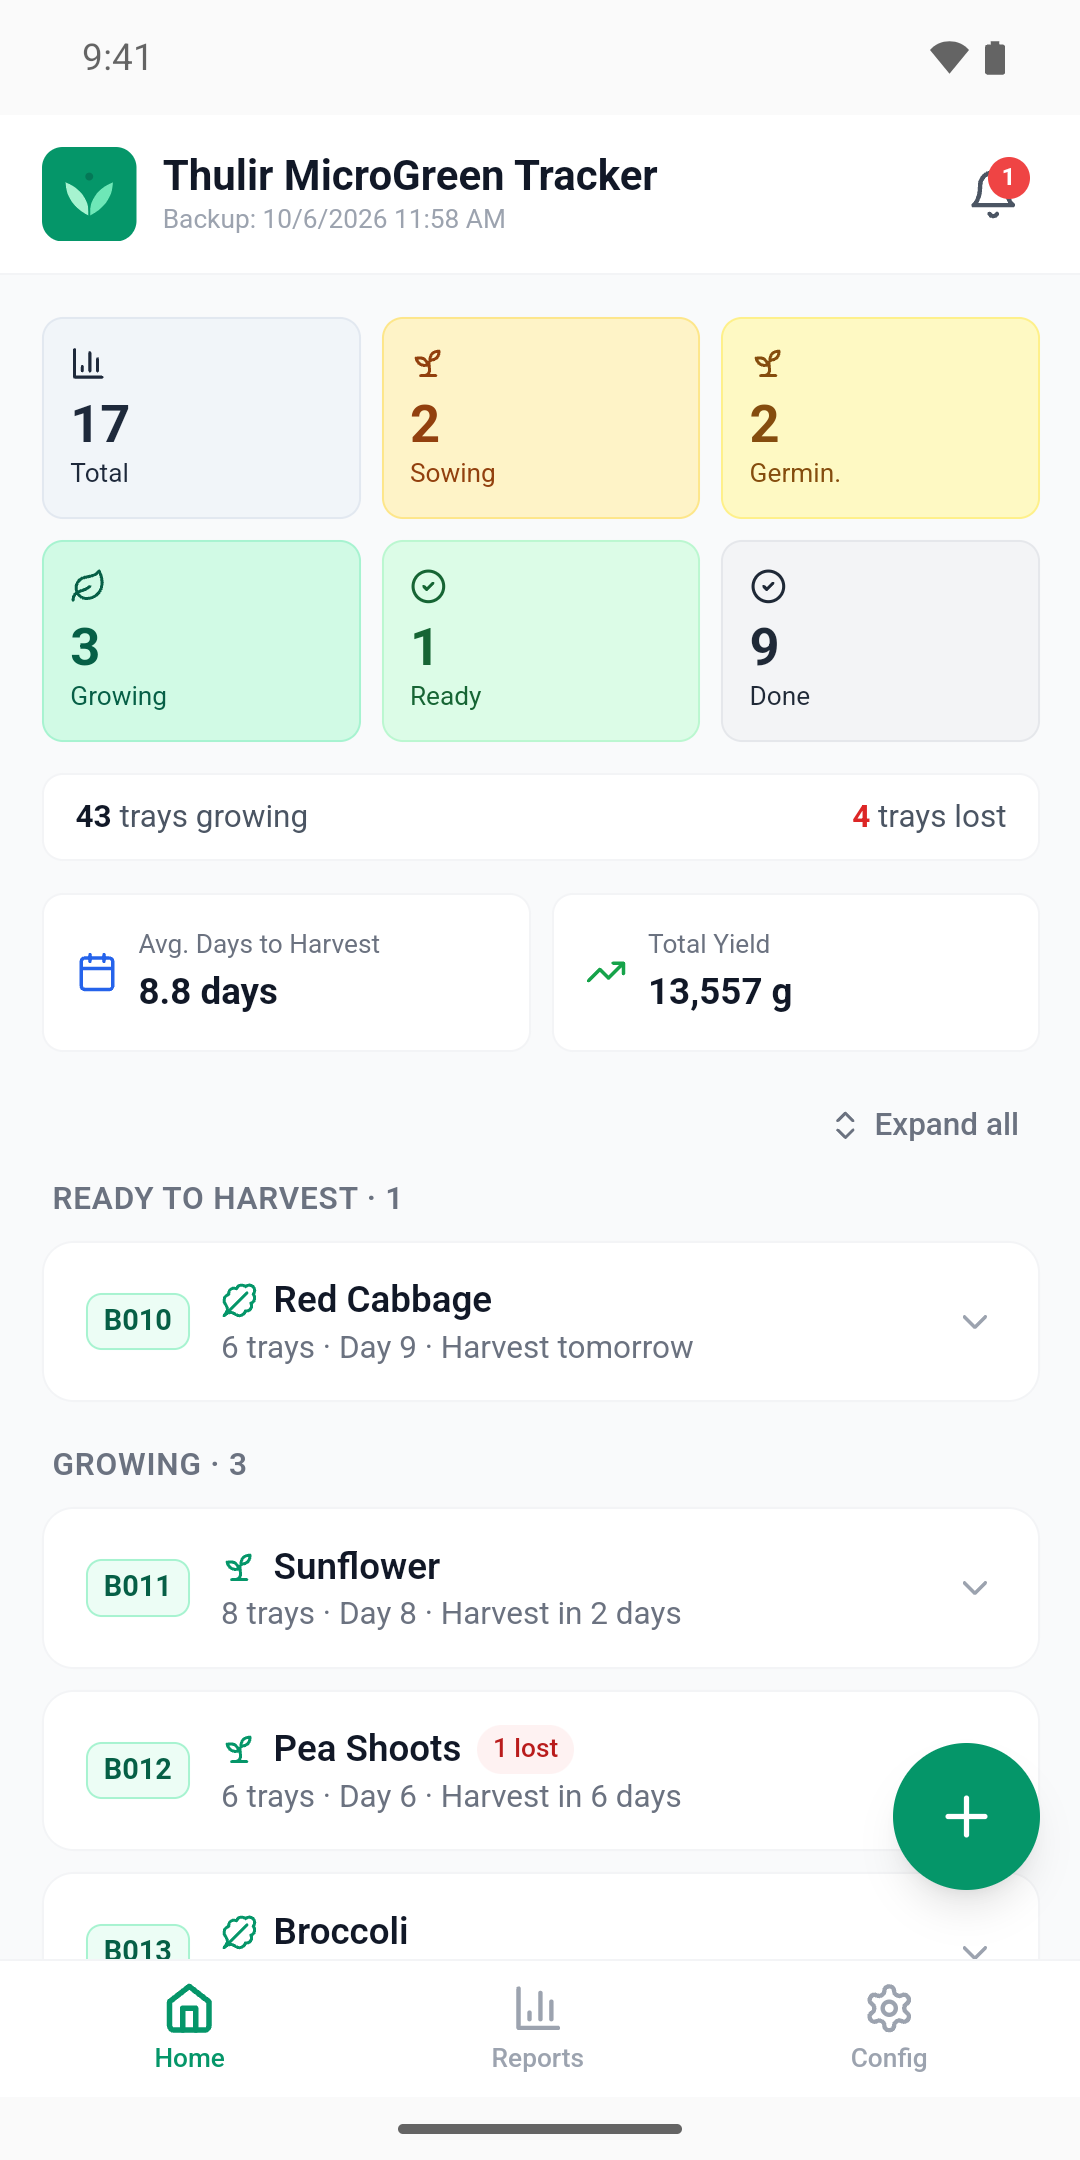
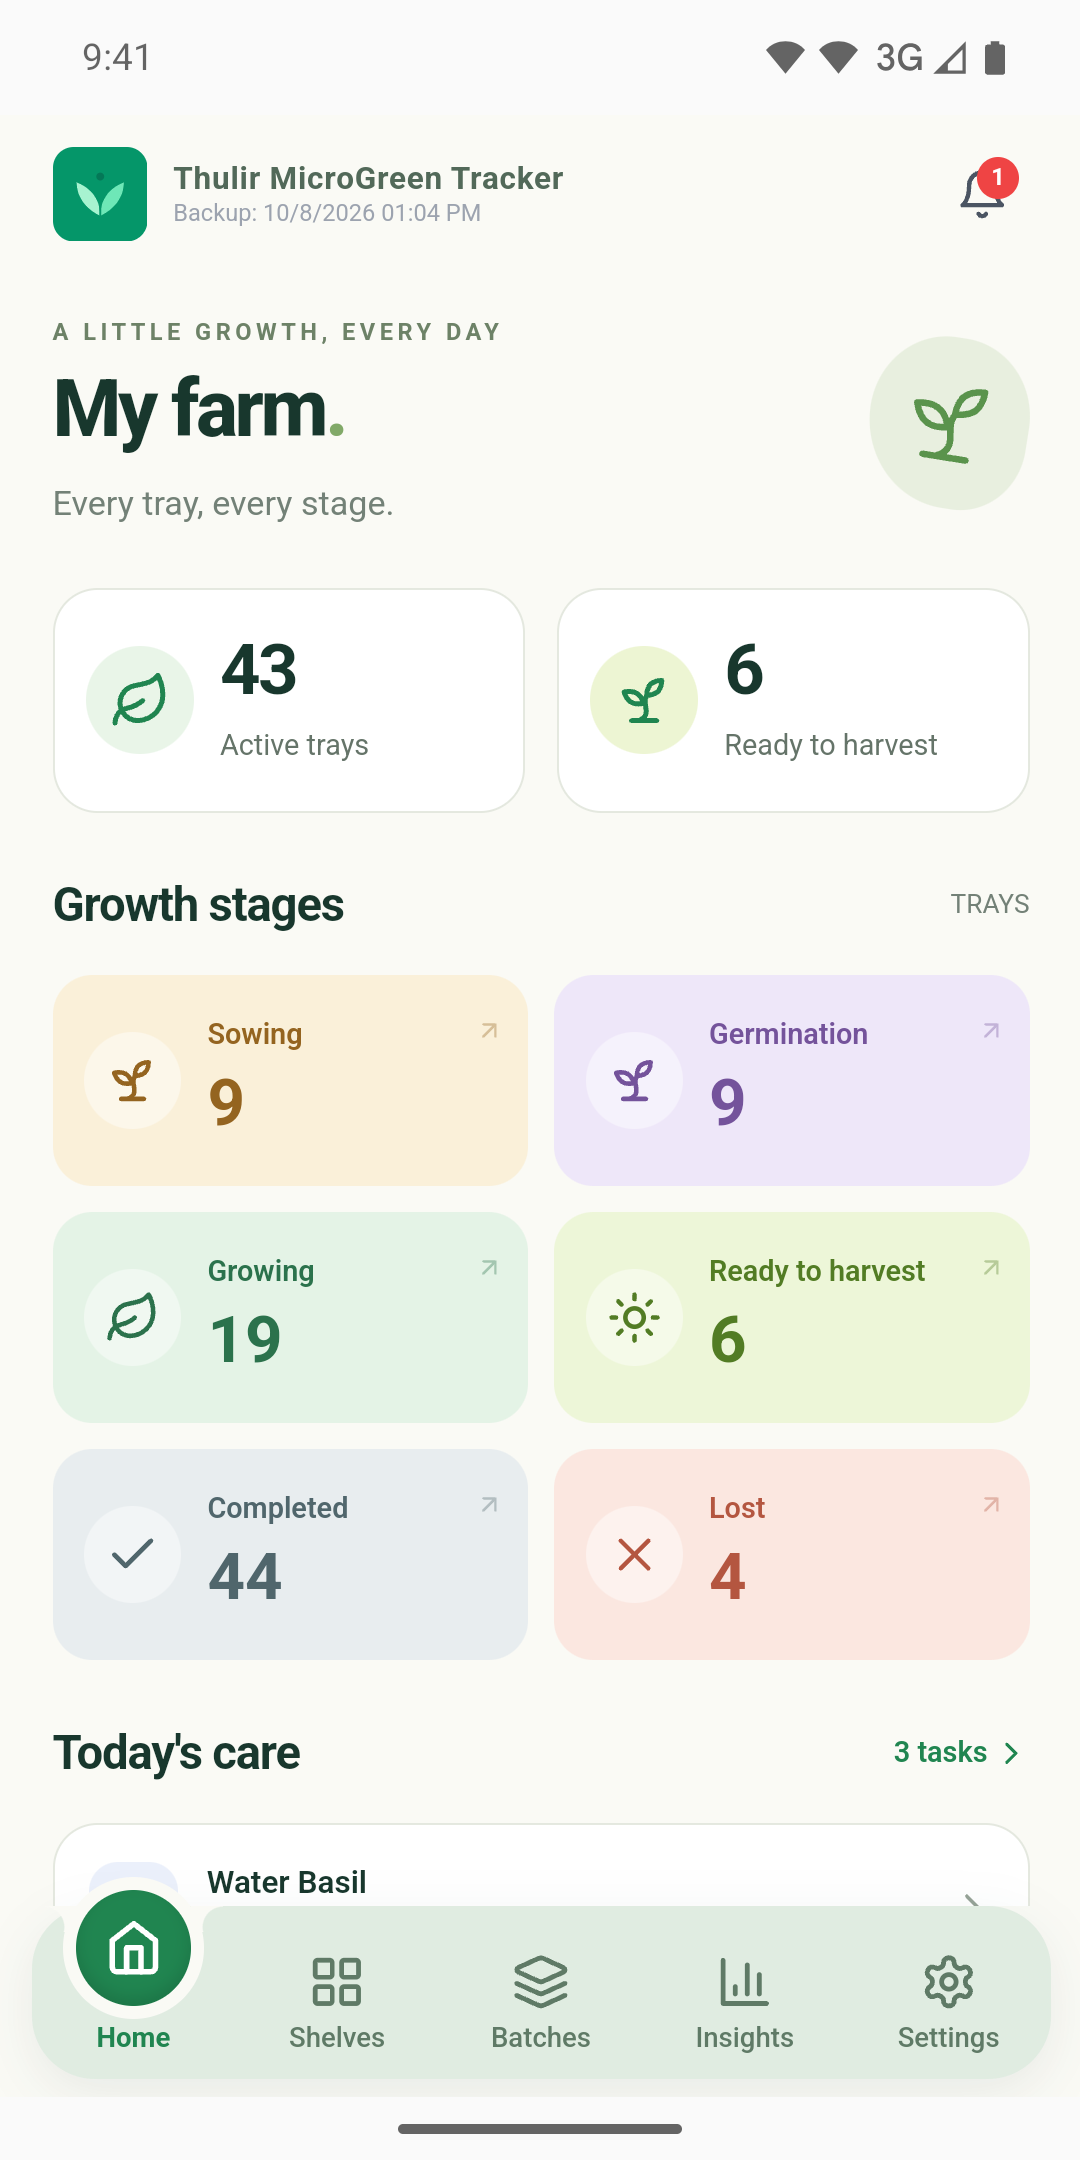
Release 1.1 (build 2): new store screenshots, rack positions everywhere
- Version 1.1, build 2 on Android and iOS.
- New store screenshots and feature graphic of the new design, from fresh
  sample data with a rack layout; updated captions, description and
  What's New text.
- The new batch, harvest, lost-tray and photo forms show positions as
  Rack / Shelf instead of #numbers.
- A batch opened from Home or a tray scrolls into view below the sticky
  stage pills.

diff --git a/src/components/AddBatchModal.tsx b/src/components/AddBatchModal.tsx
@@ -1,9 +1,9 @@
 import React, { useState, useEffect } from 'react';
-import { Plus, Minus, CreditCard as Edit3, Hash, ChevronLeft, Trash2 } from 'lucide-react';
+import { Plus, Minus, CreditCard as Edit3, MapPin, ChevronLeft, Trash2 } from 'lucide-react';
 import { AppConfig, Batch, CropType, Tray } from '../types';
 import { addDaysToDate, formatDate, todayLocal } from '../utils/dateUtils';
 import { batchCode, newId, trayCode } from '../utils/batches';
-import { locationLabel } from '../utils/farmLayout';
+import { locationLabel, rackShelves } from '../utils/farmLayout';
 
 interface AddBatchModalProps {
   isOpen: boolean;
@@ -271,9 +271,9 @@ const AddBatchModal: React.FC<AddBatchModalProps> = ({ isOpen, onClose, editBatc
               </div>
               <div className="flex items-start justify-between gap-2">
                 <span>
-                  <Hash className="w-3 h-3 inline mr-0.5" />
+                  <MapPin className="w-3 h-3 inline mr-0.5" />
                   Positions: <span className="font-semibold text-gray-900">
-                    {trays.filter(t => t.slot != null).map(t => `#${t.slot}`).join(', ') || 'none'}
+                    {rackShelves(trays.map(t => t.slot), config).map(r => `${r.rack} · ${r.shelves}`).join(', ') || 'none'}
                   </span>
                 </span>
                 <button type="button" onClick={() => setShowPositions(v => !v)} className="text-emerald-700 font-medium shrink-0">
@@ -283,7 +283,7 @@ const AddBatchModal: React.FC<AddBatchModalProps> = ({ isOpen, onClose, editBatc
               {withoutPosition > 0 && (
                 <div className="text-amber-700">
                   {withoutPosition} tray{withoutPosition === 1 ? ' has' : 's have'} no position: only {selectableSlots.length} of {config.totalTrays} are free.
-                  You can raise the number of positions in Config.
+                  Add racks or shelves under Settings → Racks & shelves.
                 </div>
               )}
             </div>
@@ -300,7 +300,7 @@ const AddBatchModal: React.FC<AddBatchModalProps> = ({ isOpen, onClose, editBatc
                       <option value="">None</option>
                       {selectableSlots
                         .filter(s => s === t.slot || !trays.some(o => o.id !== t.id && o.slot === s))
-                        .map(s => <option key={s} value={s}>#{s}</option>)}
+                        .map(s => <option key={s} value={s}>{locationLabel(s, config)}</option>)}
                     </select>
                   </label>
                 ))}

diff --git a/src/components/HarvestSheet.tsx b/src/components/HarvestSheet.tsx
@@ -1,17 +1,19 @@
 import React, { useState } from 'react';
 import { X, Scale } from 'lucide-react';
-import { Batch } from '../types';
+import { AppConfig, Batch } from '../types';
+import { shortLocation } from '../utils/farmLayout';
 import { activeTrays, batchCode, formatGrams } from '../utils/batches';
 import { todayLocal } from '../utils/dateUtils';
 
 interface HarvestSheetProps {
   batch: Batch;
+  config: AppConfig; // for each tray's rack and shelf
   onSave: (weights: Record<string, number | undefined>, date: string) => void; // tray id → grams
   onClose: () => void;
 }
 
 // Harvests a batch (or corrects an earlier harvest): one weight per growing tray, in grams.
-const HarvestSheet: React.FC<HarvestSheetProps> = ({ batch, onSave, onClose }) => {
+const HarvestSheet: React.FC<HarvestSheetProps> = ({ batch, config, onSave, onClose }) => {
   const trays = activeTrays(batch);
   const editing = batch.stage === 'completed';
   const [weights, setWeights] = useState<Record<string, string>>(
@@ -81,7 +83,7 @@ const HarvestSheet: React.FC<HarvestSheetProps> = ({ batch, onSave, onClose }) =
               {trays.map(t => (
                 <label key={t.id} className="flex items-center gap-3 p-2 bg-gray-50 rounded-lg">
                   <span className="text-sm font-semibold text-gray-800 w-14 shrink-0">{t.code}</span>
-                  <span className="text-xs text-gray-400 w-10 shrink-0">{t.slot != null ? `#${t.slot}` : ''}</span>
+                  <span className="text-xs text-gray-400 w-10 shrink-0">{shortLocation(t.slot, config) ?? ''}</span>
                   <input
                     type="number"
                     inputMode="decimal"
@@ -90,7 +92,7 @@ const HarvestSheet: React.FC<HarvestSheetProps> = ({ batch, onSave, onClose }) =
                     value={weights[t.id] ?? ''}
                     onChange={e => setWeights(prev => ({ ...prev, [t.id]: e.target.value }))}
                     aria-label={`Weight of tray ${t.code} in grams`}
-                    placeholder="g"
+                    placeholder="0"
                     className="flex-1 min-w-0 px-3 py-2 border border-gray-300 rounded-lg text-right text-sm bg-white"
                   />
                   <span className="text-xs text-gray-500">g</span>

diff --git a/src/components/QuickActionModal.tsx b/src/components/QuickActionModal.tsx
@@ -1,6 +1,7 @@
 import React, { useEffect, useState } from 'react';
 import { Droplets, Camera, FileText, Plus, ChevronLeft } from 'lucide-react';
-import { Batch, WateringRecord, BatchNote, BatchPhoto } from '../types';
+import { AppConfig, Batch, WateringRecord, BatchNote, BatchPhoto } from '../types';
+import { shortLocation } from '../utils/farmLayout';
 import { savePhotoFromFile } from '../storage/photos';
 import { activeTrays, batchCode } from '../utils/batches';
 import { stageConfig, STAGE_ORDER } from '../data/stages';
@@ -9,6 +10,7 @@ interface QuickActionModalProps {
   isOpen: boolean;
   onClose: () => void;
   batch: Batch | null;
+  config: AppConfig; // for each tray's rack and shelf
   actionType: 'watering' | 'photo' | 'note' | null;
   trayId?: string; // pre-selected tray for a photo
   onSave: (batchId: string, data: { type: string; data: Record<string, unknown> }) => void;
@@ -18,6 +20,7 @@ const QuickActionModal: React.FC<QuickActionModalProps> = ({
   isOpen,
   onClose,
   batch,
+  config,
   actionType,
   trayId,
   onSave,
@@ -231,7 +234,7 @@ const QuickActionModal: React.FC<QuickActionModalProps> = ({
                 >
                   <option value="">Whole batch</option>
                   {activeTrays(batch).map(t => (
-                    <option key={t.id} value={t.id}>{t.code}{t.slot != null ? ` · #${t.slot}` : ''}</option>
+                    <option key={t.id} value={t.id}>{t.code}{shortLocation(t.slot, config) ? ` · ${shortLocation(t.slot, config)}` : ''}</option>
                   ))}
                 </select>
               </div>

diff --git a/src/components/LostTraySheet.tsx b/src/components/LostTraySheet.tsx
@@ -1,6 +1,7 @@
 import React, { useState } from 'react';
 import { X, AlertTriangle, Check } from 'lucide-react';
-import { Batch } from '../types';
+import { AppConfig, Batch } from '../types';
+import { shortLocation } from '../utils/farmLayout';
 import { activeTrays, batchCode } from '../utils/batches';
 import { todayLocal } from '../utils/dateUtils';
 
@@ -12,13 +13,14 @@ export interface TrayLoss {
 
 interface LostTraySheetProps {
   batch: Batch;
+  config: AppConfig; // for each tray's rack and shelf
   initialTrayIds: string[];
   reasons: string[];
   onSave: (trayIds: string[], loss: TrayLoss) => void;
   onClose: () => void;
 }
 
-const LostTraySheet: React.FC<LostTraySheetProps> = ({ batch, initialTrayIds, reasons, onSave, onClose }) => {
+const LostTraySheet: React.FC<LostTraySheetProps> = ({ batch, config, initialTrayIds, reasons, onSave, onClose }) => {
   const trays = activeTrays(batch);
   const [selected, setSelected] = useState<Set<string>>(new Set(initialTrayIds));
   const [reason, setReason] = useState('');
@@ -74,7 +76,7 @@ const LostTraySheet: React.FC<LostTraySheetProps> = ({ batch, initialTrayIds, re
                     }`}
                   >
                     {on && <Check className="w-3 h-3 inline mr-1" />}
-                    {t.code}{t.slot != null && <span className="text-gray-400"> · #{t.slot}</span>}
+                    {t.code}{shortLocation(t.slot, config) && <span className="text-gray-400"> · {shortLocation(t.slot, config)}</span>}
                   </button>
                 );
               })}

diff --git a/src/App.tsx b/src/App.tsx
@@ -951,6 +951,7 @@ function TrackerApp({ data, update, saveError, onRetrySave }: TrackerAppProps) {
         isOpen={quickActionModal.isOpen}
         onClose={() => setQuickActionModal({ isOpen: false, batch: null, actionType: null })}
         batch={quickActionModal.batch}
+        config={config}
         actionType={quickActionModal.actionType}
         trayId={quickActionModal.trayId}
         onSave={handleQuickActionSave}
@@ -967,6 +968,7 @@ function TrackerApp({ data, update, saveError, onRetrySave }: TrackerAppProps) {
         return harvesting ? (
           <HarvestSheet
             batch={harvesting}
+            config={config}
             onSave={(weights, date) => harvestBatch(harvesting.id, weights, date)}
             onClose={() => setHarvestBatchId(null)}
           />
@@ -978,6 +980,7 @@ function TrackerApp({ data, update, saveError, onRetrySave }: TrackerAppProps) {
         return lossBatch ? (
           <LostTraySheet
             batch={lossBatch}
+            config={config}
             initialTrayIds={lossSheet.trayIds}
             reasons={config.lossReasons}
             onSave={(trayIds, loss) => markTraysLost(lossBatch.id, trayIds, loss)}

diff --git a/src/components/farm/farm.css b/src/components/farm/farm.css
@@ -1640,3 +1640,8 @@ body {
   padding: 4px 7px;
   white-space: nowrap;
 }
+
+/* A batch opened from Home or a tray is scrolled into view below the sticky stage pills, not under them. */
+[id^="batch-"] {
+  scroll-margin-top: 104px;
+}

diff --git a/docs/store/screenshots/tools/make-sample-data.py b/docs/store/screenshots/tools/make-sample-data.py
@@ -65,8 +65,10 @@ for i, (name, n, ago, stage, lost) in enumerate(plan, start=1):
         b['yieldUnit'] = 'grams'
     batches.append(b)
 
+# 10 racks of 6 shelves, one tray per shelf.
 data = {'batches': batches, 'config': {'totalTrays': 60, 'trayNumberPrefix': 'Tray', 'lastBatchNumber': len(batches),
-        'lastTrayNumber': tray_no}, 'reminders': []}
+        'lastTrayNumber': tray_no, 'farmLayout': {'rackCount': 10, 'shelvesPerRack': 6, 'traysPerShelf': 1}},
+        'reminders': []}
 env = {'schemaVersion': 2, 'seq': 100000, 'savedAt': now.isoformat(), 'data': data}
 json.dump(env, open('data-sample.json', 'w'))
 print(len(batches), 'batches,', tray_no, 'trays,', slot - 1, 'positions in use')

diff --git a/docs/store/screenshots.md b/docs/store/screenshots.md
@@ -21,21 +21,21 @@ are needed.
 
 | # | Screen | Headline | Sub-line |
 |---|---|---|---|
-| 1 | Home: stat tiles, trays growing / lost, batches grouped by stage | Every tray at a glance | Batches grouped by stage, ready for 50+ trays |
-| 2 | New Batch: Broccoli, 6 trays, tray IDs and positions, seed per tray | Sow a batch in seconds | Tray numbers and rack positions filled in for you |
-| 3 | Batch card opened: stage, harvest countdown, tray chips, actions | Track every tray | Positions, stages, watering and notes in one place |
-| 4 | Config → Crop Categories with their icons | 53 microgreens built in | Add your own crops and categories, each with an icon |
-| 5 | Harvest sheet: a weight for each tray and the total | Weigh every tray at harvest | Yield per tray, recorded in seconds |
-| 6 | Reports → Harvested Weight: total, per tray, seed-to-yield, by crop and month | Know your real yield | Grams per tray and seed-to-yield by crop |
-| 7 | Report lost trays: one tray and a reason selected | Learn why trays fail | Log losses by reason and spot patterns |
-| 8 | Config → Backup & Restore | Your data stays on your phone | No account. Back up to Drive in one tap |
+| 1 | Home: active trays, growth stages, today's care | Your whole farm at a glance | Every tray by stage, with today's care |
+| 2 | Shelves: Rack E drawn shelf by shelf, each tray with its batch and stage | See every rack and shelf | Each tray in its place, with its batch and stage |
+| 3 | Tray page: crop, rack and shelf, days, batch progress | A page for every tray | Location, growth stage and notes together |
+| 4 | Batches: stage pills with counts, each card with its rack and shelves | Track every batch | Filter by stage and see which rack it is on |
+| 5 | New Batch: Broccoli, 5 trays, tray IDs and rack positions, seed per tray | Sow a batch in seconds | Tray numbers and rack positions filled in for you |
+| 6 | Harvest sheet: a weight for each tray | Weigh every tray at harvest | Yield per tray, recorded in seconds |
+| 7 | Insights: report export and totals | Know your real yield | Totals by crop, with PDF and CSV reports |
+| 8 | Settings menu | Your data stays on your phone | No account. Back up to Drive in one tap |
 
-If you only upload four, use 1, 2, 5 and 6.
+If you only upload four, use 1, 2, 4 and 6.
 
 **Still to add: a photo screenshot.** A screenshot of the batch gallery or Compare screen needs real photos of
 microgreen trays (the simulator has no camera, and stock photos of something else would misrepresent the app). Take a
 few tray photos in the app on your phone, then capture the gallery with headline **Watch each tray grow** and sub-line
-**Photos by stage and by tray, compared day by day**, and add it as screenshot 4 (moving the categories one later).
+**Photos by stage and by tray, compared day by day**, and add it after screenshot 3.
 
 ## Sizes the stores accept
 
@@ -50,13 +50,15 @@ few tray photos in the app on your phone, then capture the gallery with headline
 
 The tools are in [`screenshots/tools/`](screenshots/tools/).
 
-1. **Sample data.** `python3 make-sample-data.py` writes `data-sample.json`: 17 batches and 91 trays on 60 positions,
+1. **Sample data.** `python3 make-sample-data.py` writes `data-sample.json`: 17 batches and 91 trays on 60 positions
+   (10 racks of 6 shelves),
    with harvests in the last two months, lost trays and seed weights (dates are relative to the day you run it).
    Copy it into a test install as the app's data file, with the app stopped:
    - iOS simulator: `cp data-sample.json "$(xcrun simctl get_app_container booted com.universepdkt.microgreentracker data)/Documents/microgreen/data-b.json"`
-     and delete `data-a.json` next to it.
+     and copy it over `data-a.json` next to it too.
    - Android emulator: `adb push data-sample.json /data/local/tmp/` then
-     `adb shell run-as com.universepdkt.microgreentracker sh -c 'cp /data/local/tmp/data-sample.json files/microgreen/data-b.json; rm -f files/microgreen/data-a.json'`.
+     `adb shell run-as com.universepdkt.microgreentracker cp /data/local/tmp/data-sample.json files/microgreen/data-b.json`, and the same for
+     `data-a.json`.
      Back up the emulator's own data first if you want to keep it.
    (Settings → Test data also works, but only in development builds, `npm run dev`; store builds don't show it.)
 2. **Devices.**

diff --git a/docs/store/store-listing.md b/docs/store/store-listing.md
@@ -30,9 +30,15 @@ Thulir MicroGreen Tracker helps growers track every tray from sowing to harvest,
 
 BATCHES AND TRAYS
 • Sow a batch of many trays in one step: batch numbers (B001…) and tray numbers (T001…) are created for you and never reused
-• Assign each tray to a rack or shelf position, picked automatically from the free ones
-• Collapsible batch cards grouped by stage keep 50+ trays easy to scan
+• Each tray gets a spot on your racks, picked automatically from the free ones
+• Batches grouped by stage, with stage filters, search and the rack each one is on
 • Edit batches and trays at any time
+
+RACKS AND SHELVES
+• Set up your racks, shelves and trays per shelf
+• See each rack drawn shelf by shelf, with every tray's batch and stage
+• Open any tray for its location, growth progress, photo and notes
+• Today's care on the home screen: what to water and what to harvest
 
 FROM SOWING TO HARVEST
 • Move batches through Sowing, Germination, Growing, Ready to Harvest and Completed
@@ -52,6 +58,7 @@ HARVEST AND REPORTS
 • Weigh each tray at harvest and see the batch total in grams
 • Yield per tray and seed-to-yield ratio
 • Reports by crop and by month, crop performance, tray survival, watering and harvest timeline
+• Export a PDF or CSV report for any crop and date range
 
 CROPS
 • 53 common microgreens in 10 categories, from brassicas and pulses to herbs and alliums
@@ -65,6 +72,18 @@ YOUR DATA STAYS YOURS
 
 FREE DURING LAUNCH
 Thulir MicroGreen Tracker is free while we launch. An optional Pro plan is planned for later. When it arrives you'll get a free trial first, and everything you've already recorded stays yours and stays available.
+```
+
+### What's New (version 1.1)
+
+```
+A fresh new look:
+• Home shows your farm at a glance and today's care tasks
+• Shelves draws your racks shelf by shelf, with every tray's batch and stage
+• Every tray has its own page
+• Batches show the rack and shelves they are on, with stage filters
+• PDF and CSV reports
+• Settings in clear sections, and swipe back from any screen
 ```
 
 ### What's New (first release)
